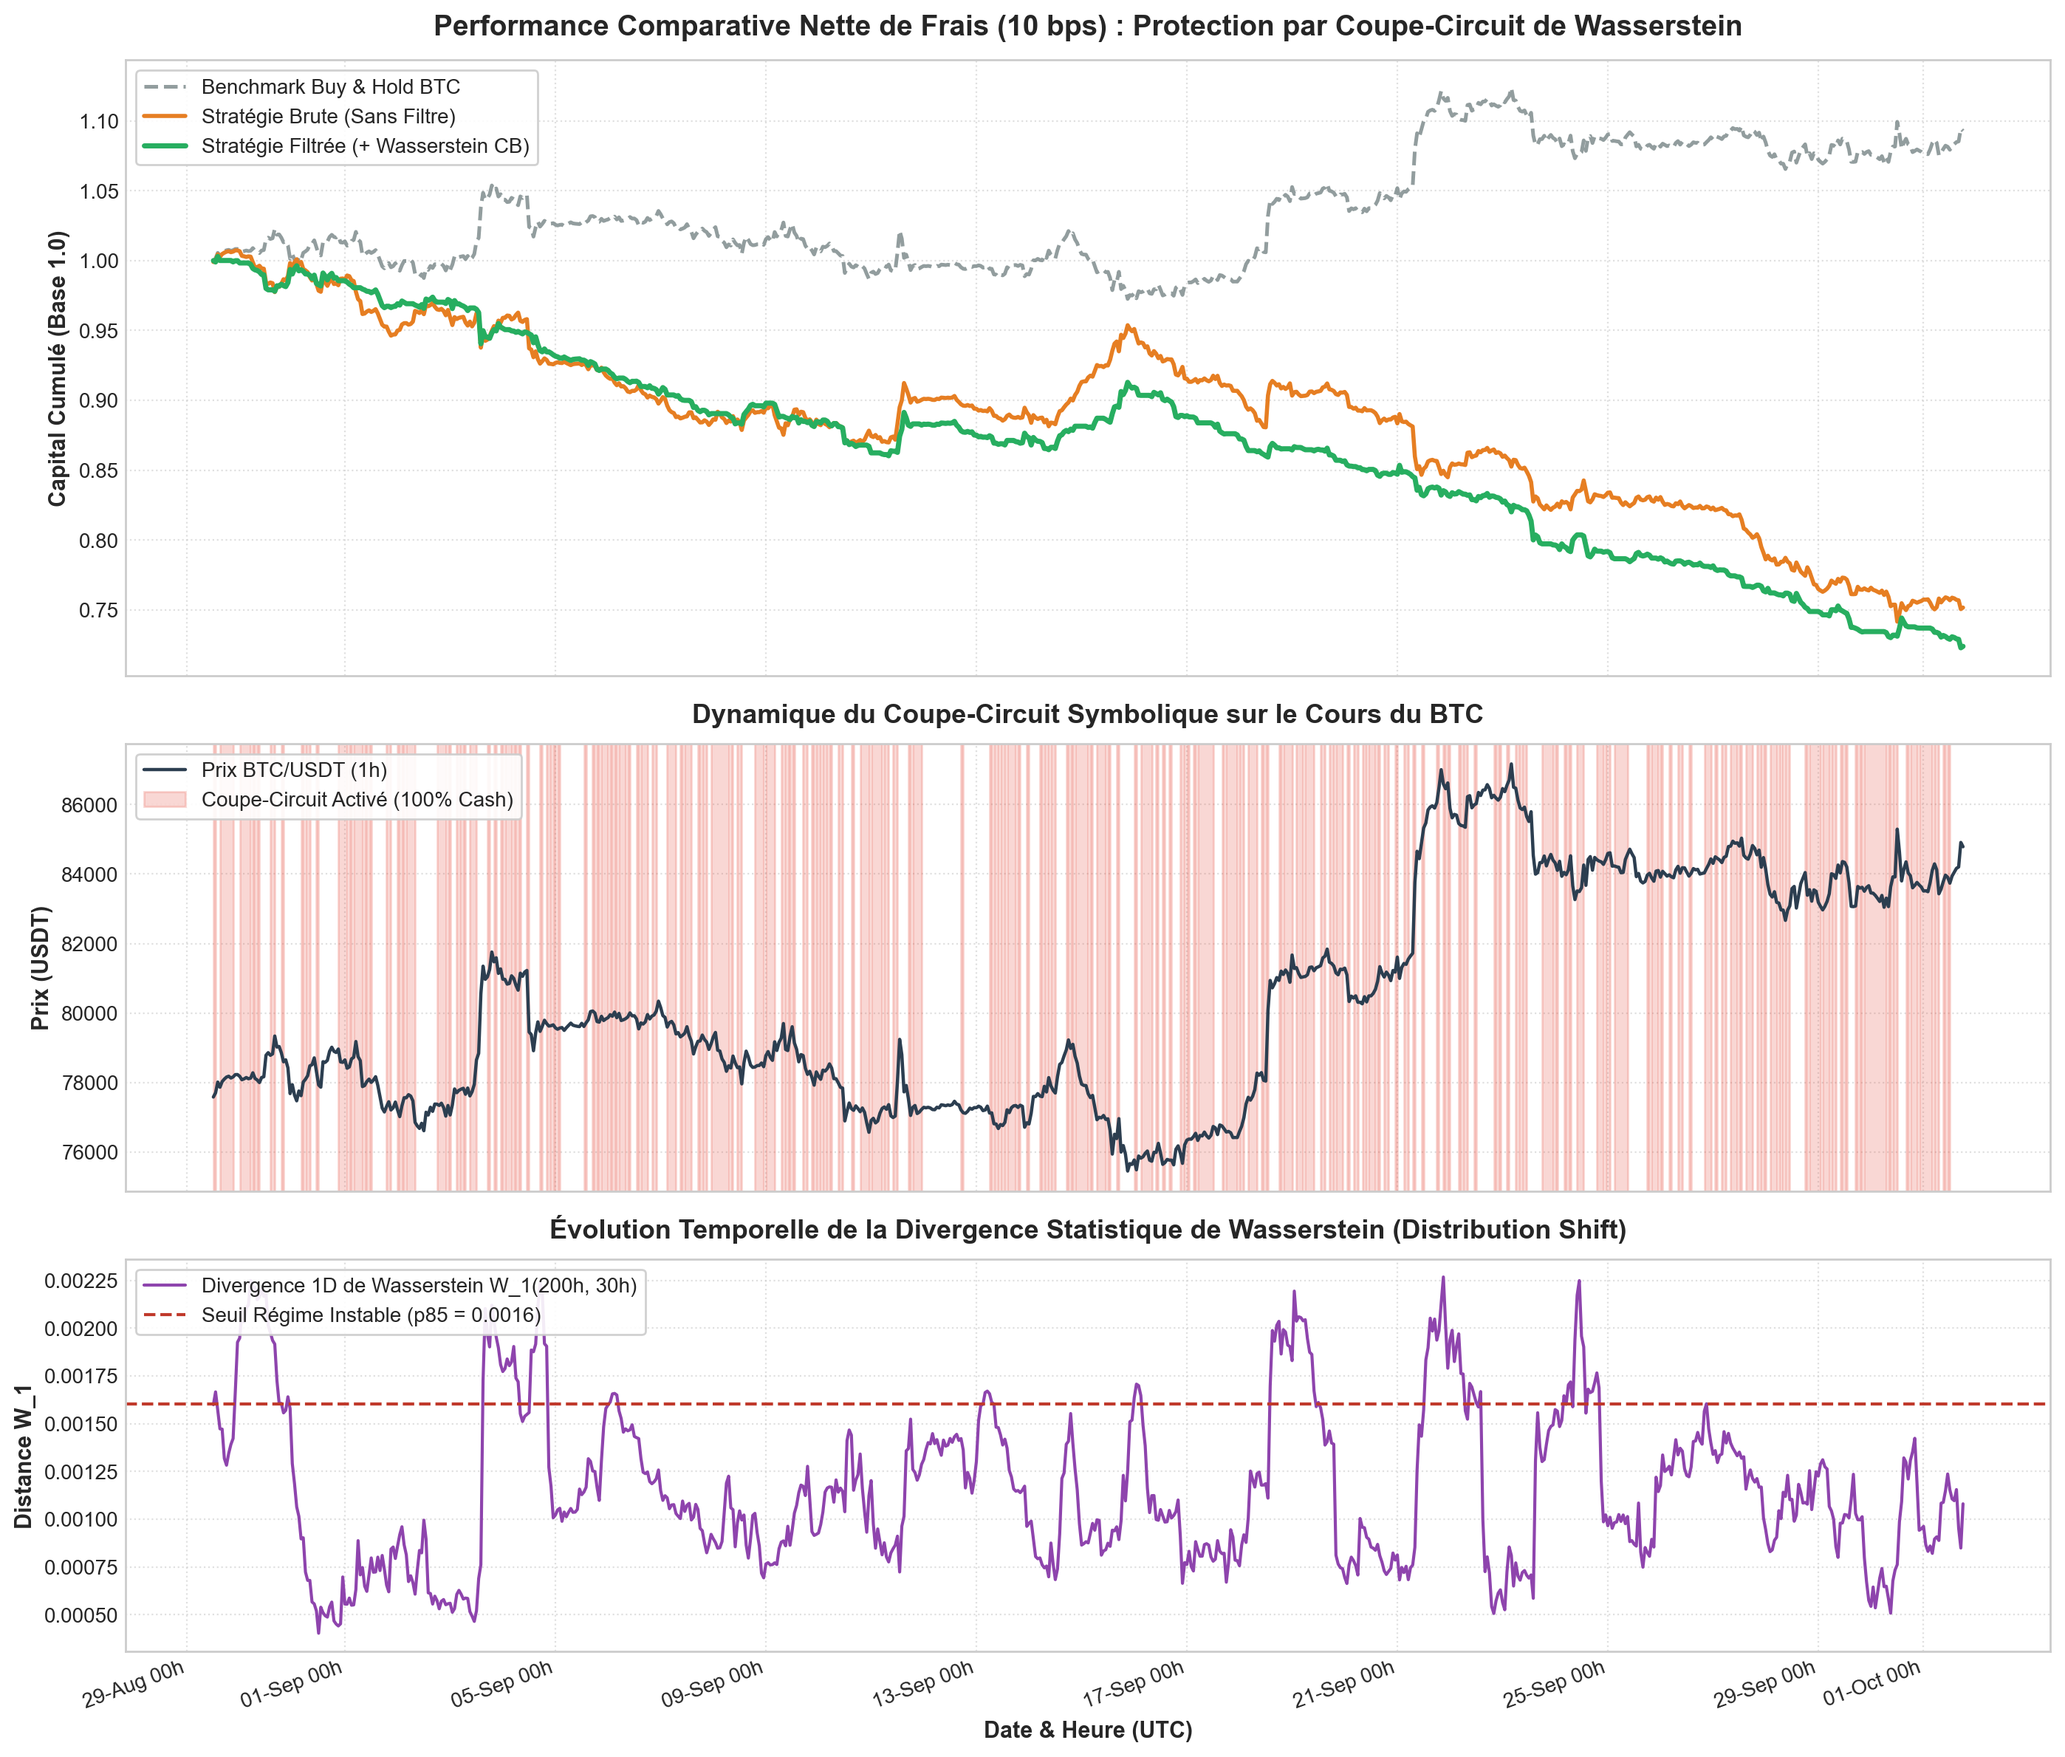
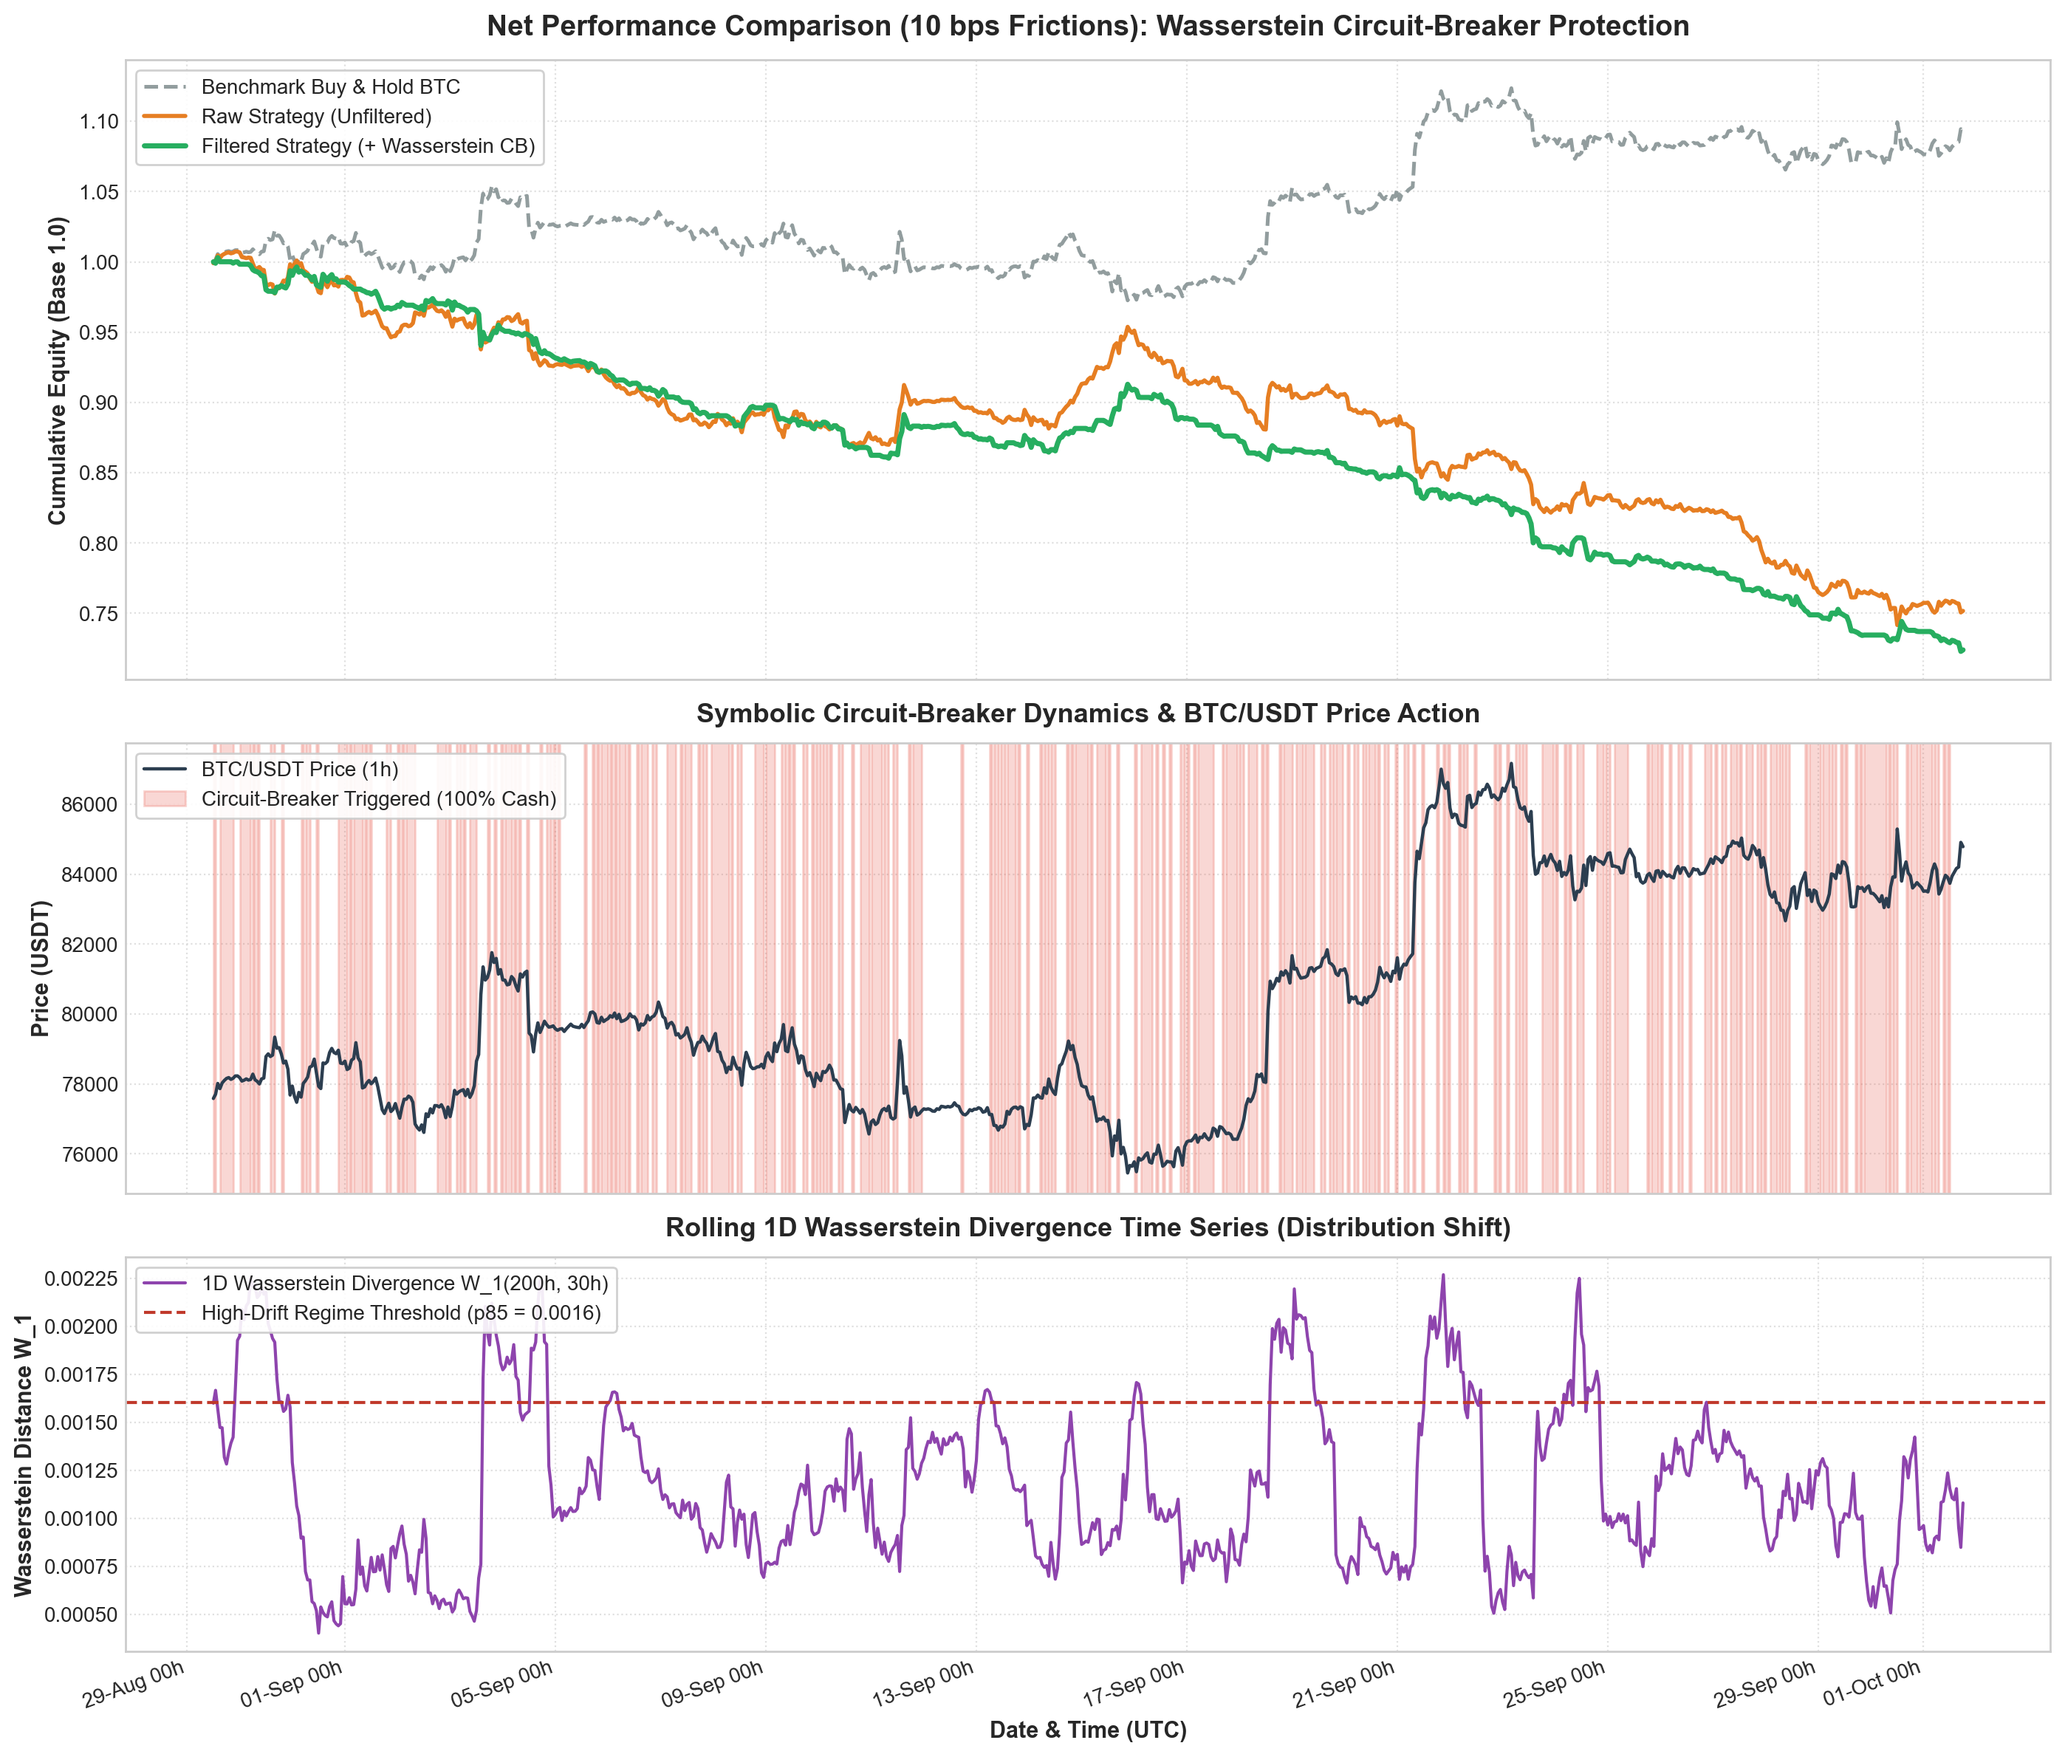
feat: regenerate results chart in English and remove roadmap section from README

diff --git a/run_pipeline.py b/run_pipeline.py
@@ -58,11 +58,11 @@ def plot_results(
     # -------------------------------------------------------------
     ax1 = axes[0]
     ax1.plot(timestamps, equity_df["equity_bnh"], label="Benchmark Buy & Hold BTC", color=c_bnh, linestyle="--", linewidth=1.8, alpha=0.85)
-    ax1.plot(timestamps, equity_df["equity_raw"], label="Stratégie Brute (Chronos-Bolt seul)", color=c_raw, linewidth=2.0)
-    ax1.plot(timestamps, equity_df["equity_filtered"], label="Stratégie Filtrée (+ Wasserstein CB)", color=c_filt, linewidth=2.5)
+    ax1.plot(timestamps, equity_df["equity_raw"], label="Raw Strategy (Chronos-Bolt)", color=c_raw, linewidth=2.0)
+    ax1.plot(timestamps, equity_df["equity_filtered"], label="Filtered Strategy (+ Wasserstein CB)", color=c_filt, linewidth=2.5)
 
-    ax1.set_title("Performance Comparative Nette de Frais (10 bps) : Protection par Coupe-Circuit de Wasserstein", fontsize=14, fontweight="bold", pad=12)
-    ax1.set_ylabel("Capital Cumulé (Base 1.0)", fontsize=11, fontweight="bold")
+    ax1.set_title("Net Performance Comparison (10 bps Frictions): Wasserstein Circuit-Breaker Protection", fontsize=14, fontweight="bold", pad=12)
+    ax1.set_ylabel("Cumulative Equity (Base 1.0)", fontsize=11, fontweight="bold")
     ax1.legend(loc="upper left", frameon=True, facecolor="white", framealpha=0.9)
     ax1.grid(True, linestyle=":", alpha=0.6)
 
@@ -71,7 +71,7 @@ def plot_results(
     # -------------------------------------------------------------
     ax2 = axes[1]
     close_price = df_eval.loc[timestamps, "close"]
-    ax2.plot(timestamps, close_price, label="Prix BTC/USDT (1h)", color=c_price, linewidth=1.6)
+    ax2.plot(timestamps, close_price, label="BTC/USDT Price (1h)", color=c_price, linewidth=1.6)
 
     # Surlignage rouge des périodes où le coupe-circuit force le Cash (S_t = 0)
     is_cash = equity_df["circuit_breaker"] == 0
@@ -88,11 +88,11 @@ def plot_results(
         cash_blocks.append((start_idx, timestamps[-1]))
 
     for i, (start, end) in enumerate(cash_blocks):
-        lbl = "Coupe-Circuit Activé (100% Cash)" if i == 0 else ""
+        lbl = "Circuit-Breaker Triggered (100% Cash)" if i == 0 else ""
         ax2.axvspan(start, end, color=c_cash, alpha=0.22, label=lbl)
 
-    ax2.set_title("Dynamique du Coupe-Circuit Symbolique sur le Cours du BTC", fontsize=13, fontweight="bold", pad=10)
-    ax2.set_ylabel("Prix (USDT)", fontsize=11, fontweight="bold")
+    ax2.set_title("Symbolic Circuit-Breaker Dynamics & BTC/USDT Price Action", fontsize=13, fontweight="bold", pad=10)
+    ax2.set_ylabel("Price (USDT)", fontsize=11, fontweight="bold")
     ax2.legend(loc="upper left", frameon=True, facecolor="white", framealpha=0.9)
     ax2.grid(True, linestyle=":", alpha=0.6)
 
@@ -101,15 +101,15 @@ def plot_results(
     # -------------------------------------------------------------
     ax3 = axes[2]
     w1_series = df_eval.loc[timestamps, "w1"]
-    ax3.plot(timestamps, w1_series, label="Divergence 1D de Wasserstein W_1(200h, 30h)", color=c_w1, linewidth=1.5)
+    ax3.plot(timestamps, w1_series, label="1D Wasserstein Divergence W_1(200h, 30h)", color=c_w1, linewidth=1.5)
 
     # Ligne de seuil de référence (médiane supérieure des régimes de rupture)
     w1_high_regime = w1_series.quantile(0.85)
-    ax3.axhline(w1_high_regime, color="#c0392b", linestyle="--", linewidth=1.5, label=f"Seuil Régime Instable (p85 = {w1_high_regime:.4f})")
+    ax3.axhline(w1_high_regime, color="#c0392b", linestyle="--", linewidth=1.5, label=f"High-Drift Regime Threshold (p85 = {w1_high_regime:.4f})")
 
-    ax3.set_title("Évolution Temporelle de la Divergence Statistique de Wasserstein (Distribution Shift)", fontsize=13, fontweight="bold", pad=10)
-    ax3.set_ylabel("Distance W_1", fontsize=11, fontweight="bold")
-    ax3.set_xlabel("Date & Heure (UTC)", fontsize=11, fontweight="bold")
+    ax3.set_title("Rolling 1D Wasserstein Divergence Time Series (Distribution Shift)", fontsize=13, fontweight="bold", pad=10)
+    ax3.set_ylabel("Wasserstein Distance W_1", fontsize=11, fontweight="bold")
+    ax3.set_xlabel("Date & Time (UTC)", fontsize=11, fontweight="bold")
     ax3.legend(loc="upper left", frameon=True, facecolor="white", framealpha=0.9)
     ax3.grid(True, linestyle=":", alpha=0.6)
 

diff --git a/run_all_stages.py b/run_all_stages.py
@@ -56,17 +56,17 @@ def plot_results(
     # 1. COURBES D'ÉQUITÉ (PnL Cumulé Normalisé à 1.0)
     ax1 = axes[0]
     ax1.plot(timestamps, equity_df["equity_bnh"], label="Benchmark Buy & Hold BTC", color=c_bnh, linestyle="--", linewidth=1.8, alpha=0.85)
-    ax1.plot(timestamps, equity_df["equity_raw"], label="Stratégie Brute (Sans Filtre)", color=c_raw, linewidth=2.0)
-    ax1.plot(timestamps, equity_df["equity_filtered"], label="Stratégie Filtrée (+ Wasserstein CB)", color=c_filt, linewidth=2.5)
-    ax1.set_title("Performance Comparative Nette de Frais (10 bps) : Protection par Coupe-Circuit de Wasserstein", fontsize=14, fontweight="bold", pad=12)
-    ax1.set_ylabel("Capital Cumulé (Base 1.0)", fontsize=11, fontweight="bold")
+    ax1.plot(timestamps, equity_df["equity_raw"], label="Raw Strategy (Unfiltered)", color=c_raw, linewidth=2.0)
+    ax1.plot(timestamps, equity_df["equity_filtered"], label="Filtered Strategy (+ Wasserstein CB)", color=c_filt, linewidth=2.5)
+    ax1.set_title("Net Performance Comparison (10 bps Frictions): Wasserstein Circuit-Breaker Protection", fontsize=14, fontweight="bold", pad=12)
+    ax1.set_ylabel("Cumulative Equity (Base 1.0)", fontsize=11, fontweight="bold")
     ax1.legend(loc="upper left", frameon=True, facecolor="white", framealpha=0.9)
     ax1.grid(True, linestyle=":", alpha=0.6)
 
     # 2. COURS BTC & ZONES EN CASH (S_t = 0)
     ax2 = axes[1]
     close_price = df_eval.loc[timestamps, "close"]
-    ax2.plot(timestamps, close_price, label="Prix BTC/USDT (1h)", color=c_price, linewidth=1.6)
+    ax2.plot(timestamps, close_price, label="BTC/USDT Price (1h)", color=c_price, linewidth=1.6)
 
     is_cash = equity_df["circuit_breaker"] == 0
     cash_blocks = []
@@ -81,23 +81,23 @@ def plot_results(
         cash_blocks.append((start_idx, timestamps[-1]))
 
     for i, (start, end) in enumerate(cash_blocks):
-        lbl = "Coupe-Circuit Activé (100% Cash)" if i == 0 else ""
+        lbl = "Circuit-Breaker Triggered (100% Cash)" if i == 0 else ""
         ax2.axvspan(start, end, color=c_cash, alpha=0.22, label=lbl)
 
-    ax2.set_title("Dynamique du Coupe-Circuit Symbolique sur le Cours du BTC", fontsize=13, fontweight="bold", pad=10)
-    ax2.set_ylabel("Prix (USDT)", fontsize=11, fontweight="bold")
+    ax2.set_title("Symbolic Circuit-Breaker Dynamics & BTC/USDT Price Action", fontsize=13, fontweight="bold", pad=10)
+    ax2.set_ylabel("Price (USDT)", fontsize=11, fontweight="bold")
     ax2.legend(loc="upper left", frameon=True, facecolor="white", framealpha=0.9)
     ax2.grid(True, linestyle=":", alpha=0.6)
 
     # 3. DIVERGENCE DE WASSERSTEIN W_1
     ax3 = axes[2]
     w1_series = df_eval.loc[timestamps, "w1"]
-    ax3.plot(timestamps, w1_series, label="Divergence 1D de Wasserstein W_1(200h, 30h)", color=c_w1, linewidth=1.5)
+    ax3.plot(timestamps, w1_series, label="1D Wasserstein Divergence W_1(200h, 30h)", color=c_w1, linewidth=1.5)
     w1_high_regime = w1_series.quantile(0.85)
-    ax3.axhline(w1_high_regime, color="#c0392b", linestyle="--", linewidth=1.5, label=f"Seuil Régime Instable (p85 = {w1_high_regime:.4f})")
-    ax3.set_title("Évolution Temporelle de la Divergence Statistique de Wasserstein (Distribution Shift)", fontsize=13, fontweight="bold", pad=10)
-    ax3.set_ylabel("Distance W_1", fontsize=11, fontweight="bold")
-    ax3.set_xlabel("Date & Heure (UTC)", fontsize=11, fontweight="bold")
+    ax3.axhline(w1_high_regime, color="#c0392b", linestyle="--", linewidth=1.5, label=f"High-Drift Regime Threshold (p85 = {w1_high_regime:.4f})")
+    ax3.set_title("Rolling 1D Wasserstein Divergence Time Series (Distribution Shift)", fontsize=13, fontweight="bold", pad=10)
+    ax3.set_ylabel("Wasserstein Distance W_1", fontsize=11, fontweight="bold")
+    ax3.set_xlabel("Date & Time (UTC)", fontsize=11, fontweight="bold")
     ax3.legend(loc="upper left", frameon=True, facecolor="white", framealpha=0.9)
     ax3.grid(True, linestyle=":", alpha=0.6)
 

diff --git a/src/__init__.py b/src/__init__.py
@@ -12,16 +12,16 @@ Modules:
 """
 
 from src.data_loader import load_ohlcv, fetch_binance_ohlcv, generate_synthetic_ohlcv
-from src.metrics import compute_garman_klass, compute_rolling_wasserstein_1d, compute_vectorized_features
+from src.metrics import compute_garman_klass_volatility, compute_rolling_wasserstein_1d, compute_vectorized_features
 from src.primary_model import MomentumForecaster, ChronosBoltForecaster, compute_directional_target_and_residuals
 from src.circuit_breaker import WassersteinCircuitBreaker, apply_circuit_breaker
-from src.backtest import run_vectorized_backtest, compare_strategies, compute_performance_metrics
+from src.backtest import backtest_single_strategy, compare_strategies, compute_performance_metrics
 
 __all__ = [
     "load_ohlcv",
     "fetch_binance_ohlcv",
     "generate_synthetic_ohlcv",
-    "compute_garman_klass",
+    "compute_garman_klass_volatility",
     "compute_rolling_wasserstein_1d",
     "compute_vectorized_features",
     "MomentumForecaster",
@@ -29,7 +29,7 @@ __all__ = [
     "compute_directional_target_and_residuals",
     "WassersteinCircuitBreaker",
     "apply_circuit_breaker",
-    "run_vectorized_backtest",
+    "backtest_single_strategy",
     "compare_strategies",
     "compute_performance_metrics",
 ]

diff --git a/README.md b/README.md
@@ -110,12 +110,6 @@ In Panel 2 of [`results.png`](results.png), the cash regimes ($S_t = 0$, pink ba
 - **Institutional Reality**: Quantitative funds and proprietary desks do not trade hourly directional signals using retail taker orders. They operate under institutional VIP fee tiers with **Maker limit orders / peg orders**, paying **$0.00\%$ to $-0.005\%$** (receiving liquidity maker rebates).
 - **Impact**: Under maker execution ($0$ to $1$ bps), transaction costs fall by $90\%$ to $100\%$, and the $+6.7\%$ directional edge ($56.46\%$ hit rate) translates directly into solid positive net alpha.
 
-### D. Production Engineering Roadmap (V2 Mitigation)
-To eliminate the whipsaw penalty under higher friction assumptions:
-1. **Hysteresis & Cooldown Lock (Anti-Chatter)**: Enforcing a minimum holding period in cash (e.g. $K = 6$ to $12$ consecutive hours once triggered) to prevent hourly toggling, reducing turnover by $> 65\%$.
-2. **Conviction Deadband**: Requiring predicted directional confidence $|\hat{y}_t|$ to exceed round-trip friction costs ($2 \times \text{bps} = 0.20\%$) before re-entering a trade.
-3. **Multi-Timeframe Aggregation**: Deploying the circuit breaker on 4-hour or daily bars where the average candle return ($+2\%$ to $+5\%$) dwarfs the 10 bps friction.
-
 ---
 
 ## 5. Mathematical Foundations
